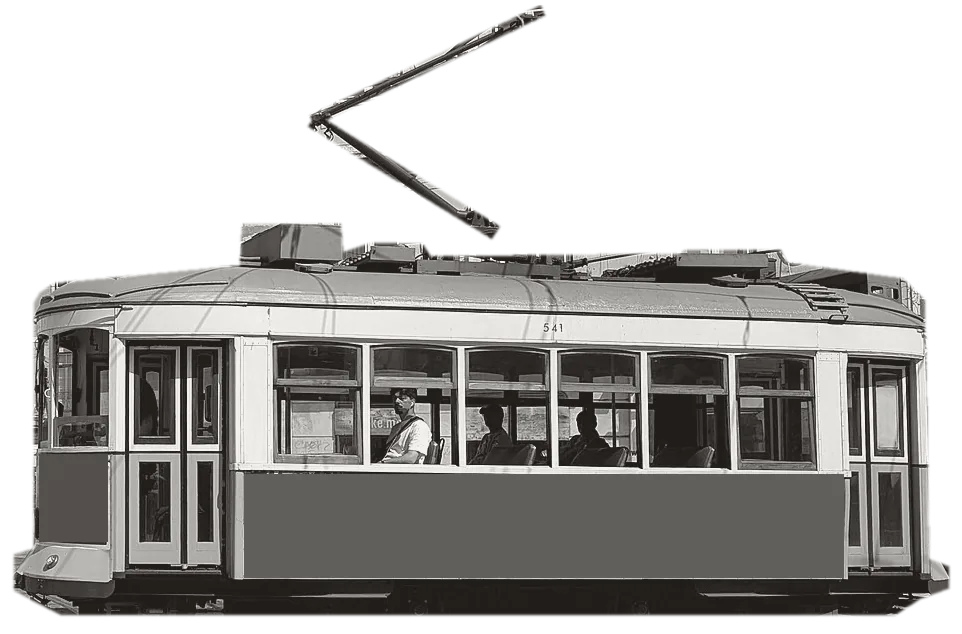
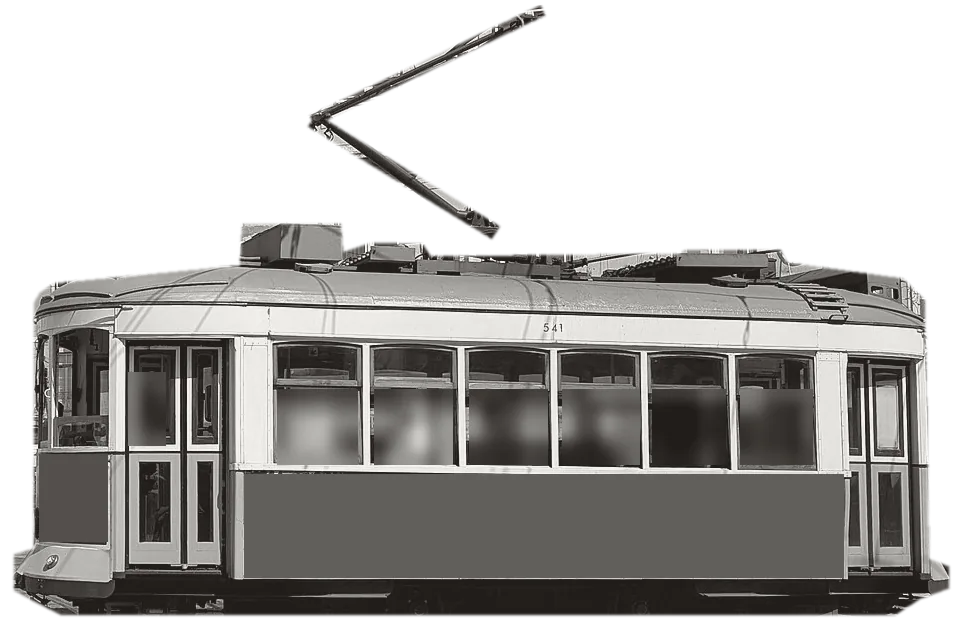
Elétrico da Justiça: as vias pontilhadas até ao fim e nenhum rosto à vista
O docente, sobre a colagem publicada: «os pontos vermelhos têm de ir até ao fim» e «esta cara não pode ser visível». A via a direito passa a ir até à ponta esquerda, como os carris (M488 464H-660; a outra já saía pelo fundo). No recorte do elétrico (tools/tratar_corpo_santo.py), as vidraças de baixo das seis janelas e o vidro da porta da frente ficam desfocados (mosaico e desfoque), e nenhum passageiro se reconhece. O crédito diz a alteração («com as janelas desfocadas»), como pede a CC BY-SA. O gerador fixa o novo SHA-256 do recorte e regenera o SVG e a página. Testes: unitários todos, gerar_carris.py --verificar e browser_fundo_carris aprovados.

Claude-Session: https://claude.ai/code/session_019kk5YG7rVg4NAnh75qeMqa

Changed region(s): [[0.2807, 0.5994, 0.842, 0.7492], [0.1247, 0.5694, 0.1871, 0.7192], [0.7173, 0.6893, 0.7484, 0.7192]]

diff --git a/olhar-e-decidir/justica/index.html b/olhar-e-decidir/justica/index.html
@@ -827,11 +827,11 @@
 <image class="jc-foto" href="../../assets/justica/eletrico-541-recorte.webp" x="592.8" y="100.8" width="575.3" height="379.1"/>
 <path class="jc-alvo" d="M598 254h564v194h-564z" fill="none" stroke="currentColor" stroke-width="2.5" stroke-dasharray="6 7" opacity=".6"/>
 <g fill="none" stroke-linecap="round" stroke-linejoin="round">
-<path class="jc-via jc-via-a" d="M488 464H-180" stroke="var(--jc-terra,#a84939)" stroke-width="7" stroke-dasharray="1 17"/>
+<path class="jc-via jc-via-a" d="M488 464H-660" stroke="var(--jc-terra,#a84939)" stroke-width="7" stroke-dasharray="1 17"/>
 <path class="jc-via jc-via-b" d="M492 466C446 468 400 494 354 536C322 564 300 590 288 610" stroke="var(--jc-terra,#a84939)" stroke-width="7" stroke-dasharray="1 17"/>
 <path class="jc-agulha" d="M470 470l34-1M478 458l28 2" stroke="currentColor" stroke-width="3.5"/>
 <g class="jc-alavanca" stroke="currentColor" stroke-width="4"><path d="M532 548H584L594 560H542Z" fill="var(--jc-papel,#f3f2ee)"/><path d="M563 548L561 496"/><circle cx="561" cy="486" r="10" fill="var(--jc-papel,#f3f2ee)"/><path d="M546 552L496 476" stroke-width="2.5" stroke-dasharray="5 7"/></g>
-</g></g></svg></div></header><p class="jc-credito">Fotografia: elétrico 541 no Largo do Corpo Santo, Lisboa, 29 de maio de 2025, de Philip Mallis (<a href="https://commons.wikimedia.org/wiki/File:Remodelados_class_tram_no._541_turning_street_corner_in_Largo_do_Corpo_Santo_in_Lisbon,_Portugal_(55127582736).jpg">Wikimedia Commons</a>, <a href="https://creativecommons.org/licenses/by-sa/4.0/deed.pt">CC BY-SA 4.0</a>); o elétrico recortado, a preto e branco e sem a publicidade, com a mesma licença. A via, a agulha, as duas vias possíveis e a alavanca ao lado da via são desenho. Grafismo gerado com recurso a IA, EPI, 2026. Duas vias possíveis, sem desfecho. <button type="button" class="fundo-botao" data-fundo-botao="jc" hidden>Parar o desenho</button></p>
+</g></g></svg></div></header><p class="jc-credito">Fotografia: elétrico 541 no Largo do Corpo Santo, Lisboa, 29 de maio de 2025, de Philip Mallis (<a href="https://commons.wikimedia.org/wiki/File:Remodelados_class_tram_no._541_turning_street_corner_in_Largo_do_Corpo_Santo_in_Lisbon,_Portugal_(55127582736).jpg">Wikimedia Commons</a>, <a href="https://creativecommons.org/licenses/by-sa/4.0/deed.pt">CC BY-SA 4.0</a>); o elétrico recortado, a preto e branco, sem a publicidade e com as janelas desfocadas, com a mesma licença. A via, a agulha, as duas vias possíveis e a alavanca ao lado da via são desenho. Grafismo gerado com recurso a IA, EPI, 2026. Duas vias possíveis, sem desfecho. <button type="button" class="fundo-botao" data-fundo-botao="jc" hidden>Parar o desenho</button></p>
 <h2>Quem é</h2><ul class="ju-quem">
 <li>Michael J. Sandel ensina filosofia política na Universidade de Harvard.</li>
 <li>O seu curso «Justice» já teve milhares de alunos, mais de 14 000 até 2009. Harvard publicou as aulas em vídeo: doze episódios gravados no Sanders Theatre.</li>

diff --git a/tools/gerar_carris.py b/tools/gerar_carris.py
@@ -16,7 +16,8 @@ FOTO='justica/eletrico-541-recorte.webp'
 # a esquerda), fica a agulha; depois dela, as duas vias seguem no mesmo sentido, uma a direito e a outra a curvar para o
 # primeiro plano. As duas são possíveis para o elétrico. A alavanca fica junto à agulha, ao lado da via, ligada por uma vara.
 # --verificar confere o SHA-256 do recorte.
[1 lines of base64/hex data omitted]
+# 05/11/2026: recorte com as janelas desfocadas (o docente: «esta cara não pode ser visível»).
[1 lines of base64/hex data omitted]
 W,H=1340,600
 # Recorte: 962 x 634 px, desenhado a 0,598 por píxel; as rodas assentam no carril da frente (y 470).
 RECORTE=(592.8,100.8,575.3,379.1)
@@ -55,7 +56,8 @@ def cena(href='../../assets/'+FOTO):
        '<path class="jc-alvo" d="M598 254h564v194h-564z" fill="none" stroke="currentColor" stroke-width="2.5" stroke-dasharray="6 7" opacity=".6"/>',
        '<g fill="none" stroke-linecap="round" stroke-linejoin="round">',
        # As duas vias possíveis, a pontilhado: nenhuma é escolhida.
-       '<path class="jc-via jc-via-a" d="M488 464H-180" stroke="var(--jc-terra,#a84939)" stroke-width="7" stroke-dasharray="1 17"/>',
+       # 05/11/2026: o docente, «os pontos vermelhos têm de ir até ao fim»: a via a direito vai até à ponta esquerda, como os carris.
+       '<path class="jc-via jc-via-a" d="M488 464H-660" stroke="var(--jc-terra,#a84939)" stroke-width="7" stroke-dasharray="1 17"/>',
        '<path class="jc-via jc-via-b" d="M492 466C446 468 400 494 354 536C322 564 300 590 288 610" stroke="var(--jc-terra,#a84939)" stroke-width="7" stroke-dasharray="1 17"/>',
        # A agulha: as duas lâminas, à frente do elétrico.
        '<path class="jc-agulha" d="M470 470l34-1M478 458l28 2" stroke="currentColor" stroke-width="3.5"/>',
@@ -73,7 +75,7 @@ PAGINA=ROOT/'olhar-e-decidir/justica/index.html'
 # 05/11/2026: CC BY-SA 4.0: título, autor, fonte, licença e as alterações; a fotografia tratada fica com a mesma licença.
 CREDITO=('Fotografia: elétrico 541 no Largo do Corpo Santo, Lisboa, 29 de maio de 2025, de Philip Mallis '
          '(<a href="https://commons.wikimedia.org/wiki/File:Remodelados_class_tram_no._541_turning_street_corner_in_Largo_do_Corpo_Santo_in_Lisbon,_Portugal_(55127582736).jpg">Wikimedia Commons</a>, '
-         '<a href="https://creativecommons.org/licenses/by-sa/4.0/deed.pt">CC BY-SA 4.0</a>); o elétrico recortado, a preto e branco e sem a publicidade, com a mesma licença. '
+         '<a href="https://creativecommons.org/licenses/by-sa/4.0/deed.pt">CC BY-SA 4.0</a>); o elétrico recortado, a preto e branco, sem a publicidade e com as janelas desfocadas, com a mesma licença. '
          'A via, a agulha, as duas vias possíveis e a alavanca ao lado da via são desenho. Grafismo gerado com recurso a IA, EPI, 2026. Duas vias possíveis, sem desfecho.')
 
 def instalar(texto):

diff --git a/tools/tratar_corpo_santo.py b/tools/tratar_corpo_santo.py
@@ -18,6 +18,8 @@ CORPO = [(24,628),(24,592),(44,586),(44,340),(50,330),(64,321),(250,303),(252,26
          (905,652),(70,652),(46,640)]
 VARA = (((505,270),(322,158),15),((322,158),(552,48),11))
 CAIXA = (OX+10, OY+38, OX+972, OY+672)
+# 05/11/2026: vidraças com passageiros (e o vidro da porta da frente), em píxeis do recorte (origem em CAIXA).
+VIDRACAS = [(277,389,358,465),(374,389,453,465),(469,389,548,465),(562,389,640,465),(652,389,726,465),(740,389,813,465),(128,372,166,446)]
 
 def tratar(origem):
     assert hashlib.sha256(Path(origem).read_bytes()).hexdigest() == MINIATURA_SHA256, 'miniatura diferente da registada'
@@ -30,6 +32,14 @@ def tratar(origem):
         verm = reg[(reg[:, 0] > 120) & (reg[:, 1] < 80) & (reg[:, 2] < 80)]
         a[y0:y1, x0:x1] = np.median(verm, axis=0).astype(np.uint8)
     im = Image.fromarray(a)
+    # 05/11/2026: o docente, sobre a colagem: «esta cara não pode ser visível». As vidraças de baixo das seis janelas, onde vão
+    # os passageiros, e o vidro da porta da frente ficam desfocados (mosaico e desfoque): ninguém se reconhece.
+    for x0, y0, x1, y1 in VIDRACAS:
+        caixa = (x0 + CAIXA[0], y0 + CAIXA[1], x1 + CAIXA[0], y1 + CAIXA[1])
+        r = im.crop(caixa)
+        w, h = r.size
+        r = r.resize((max(1, w // 12), max(1, h // 12)), Image.BILINEAR).resize((w, h), Image.BILINEAR).filter(ImageFilter.GaussianBlur(4))
+        im.paste(r, caixa)
     mascara = Image.new('L', im.size, 0)
     d = ImageDraw.Draw(mascara)
     d.polygon([(x + OX, y + OY) for x, y in CORPO], fill=255)
